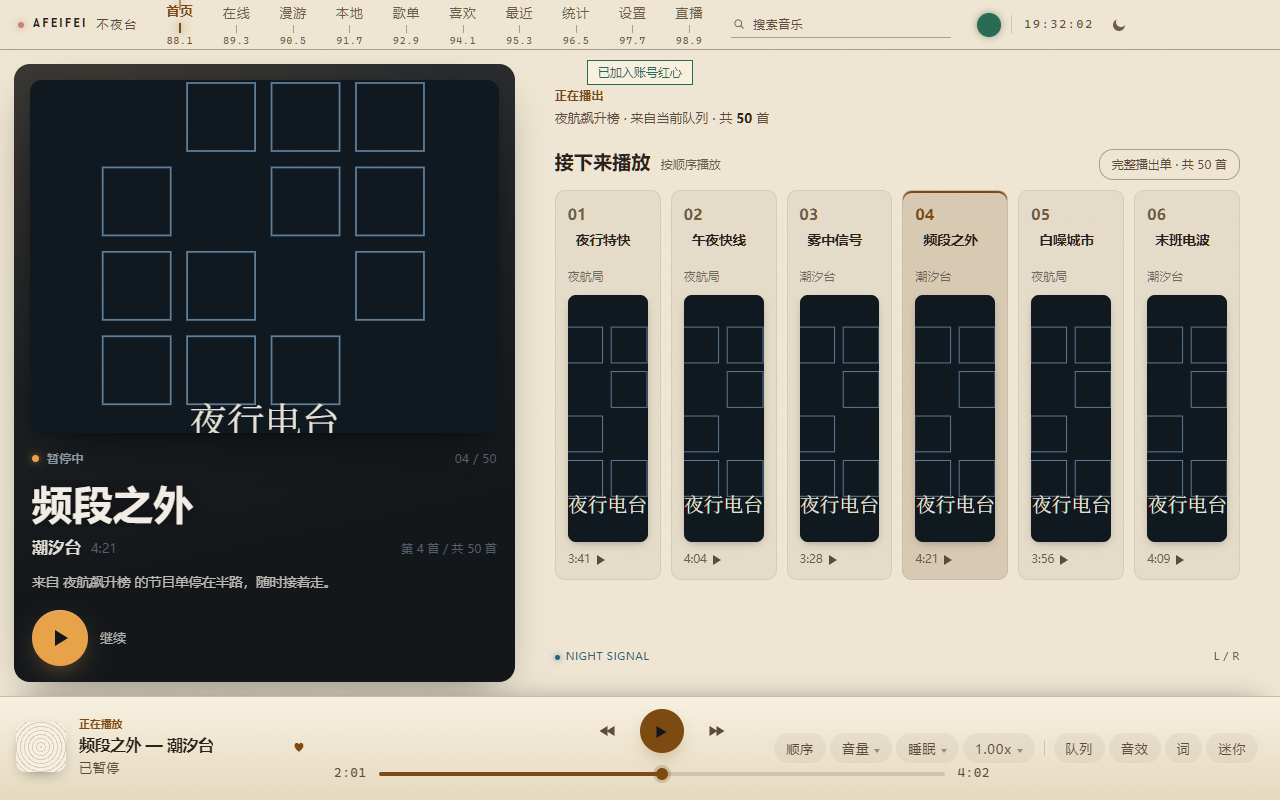
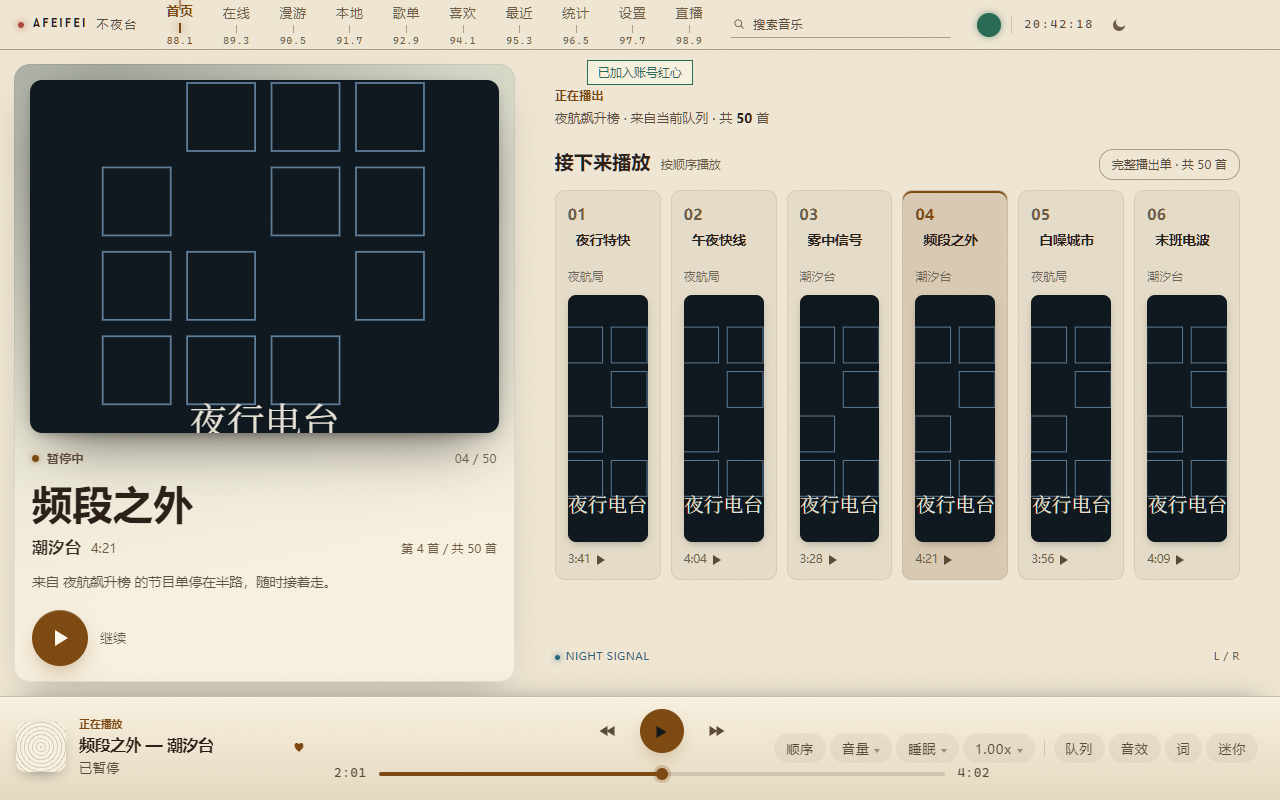
ui: 首页封面台退出恒暗区，hero 跟主题 + 封面取色做场景层

Changed region(s): [[0.0, 0.0625, 0.4062, 0.875]]

diff --git a/src/renderer/ui/live/cover-stage.css b/src/renderer/ui/live/cover-stage.css
@@ -1,7 +1,8 @@
 /* ================= 首页 · 现代播放器（COVER STAGE v2） =================
-   视觉语言换代：无衬线为主、圆角卡片、阴影层次、大封面主导——
-   去掉票根/印刷语言的方框与全等宽排版。左：「正在播放」大图卡；
-   右：接下来播放的圆角封面卡网格 + 真频谱。主题 token 体系不变。
+   视觉语言：无衬线为主、圆角卡片、阴影层次、大封面主导。
+   左：「正在播放」大图卡 = 首页的场景层（§9.3）——底色 = 封面取色 × 主题面板，
+   每首歌进来页面换一次氛围（tint 只进这一块，UI 骨架不跟色）；
+   右：接下来播放的圆角封面卡网格 + 真频谱（结构层，跟主题不跟封面）。
    动效只保留「本次运行第一次进入首页」的一次入场；切页不重播。 */
 
 .shell.live .cs-home {
@@ -26,27 +27,15 @@
   flex-direction: column;
   padding: 16px;
   border-radius: 16px;
-  /* 恒深舞台 + 封面取色（--cs-tint 来自 M9-2 管线）：卡底带封面色温——
-     紫封面 → 深紫卡、橙封面 → 深棕卡，浅色壳上的大黑块不再突兀。
-     tint 失败时 transparent → 纯墨兜底，取色永不影响可读性 */
-  background-color: var(--live-ink);
+  /* 场景层：卡底带封面色温——紫封面 → 淡紫卡（浅色档）/ 深紫卡（深色档）。
+     tint 失败时 transparent → 纯面板兜底，取色永不影响可读性（M9-2 管线 L 已夹取） */
+  background-color: var(--live-panel);
   background-image:
-    radial-gradient(120% 90% at 18% 0%, color-mix(in oklch, var(--cs-tint) 42%, transparent), transparent 60%),
-    linear-gradient(168deg, color-mix(in oklch, var(--cs-tint) 20%, var(--live-ink)), var(--live-ink) 78%);
-  box-shadow: 0 18px 44px -20px rgba(0, 0, 0, 0.5);
-}
-
-/* 电台身份戳：现代结构里保留的一枚 mono 印章——只在角落，不参与排版 */
-.cs-stamp-corner {
-  position: absolute;
-  top: 26px;
-  right: 28px;
-  z-index: 4;
-  font-family: var(--font-mono);
-  font-size: 10px;
-  letter-spacing: 0.22em;
-  color: color-mix(in srgb, var(--live-fg) 48%, transparent);
-  pointer-events: none;
+    radial-gradient(120% 90% at 18% 0%, color-mix(in oklch, var(--cs-tint) 28%, transparent), transparent 60%),
+    linear-gradient(168deg, color-mix(in oklch, var(--cs-tint) 16%, var(--live-panel)), var(--live-panel) 78%);
+  box-shadow:
+    0 18px 44px -20px rgba(0, 0, 0, 0.28),
+    inset 0 0 0 1px color-mix(in srgb, var(--live-fg) 7%, transparent);
 }
 
 /* 封面 = flex item 弹性占满上部（文档流，信息区永不会越出卡片）。
@@ -118,7 +107,6 @@
   line-height: 1.18;
   letter-spacing: 0.01em;
   color: var(--live-fg);
-  text-shadow: 0 2px 24px rgba(0, 0, 0, 0.5);
   overflow-wrap: anywhere;
 }
 
@@ -188,7 +176,8 @@
   border: none;
   border-radius: 50%;
   background: var(--live-amber);
-  color: var(--live-ink);
+  /* 琥珀/赭石填充上的字色：--live-accent-ink 四档各自保证对比（浅底档近白、深底档近黑） */
+  color: var(--live-accent-ink);
   cursor: pointer;
   box-shadow:
     0 10px 26px -10px color-mix(in srgb, var(--live-amber) 62%, transparent),
@@ -459,8 +448,8 @@
   min-height: 44px;
   margin: 10px 0 8px;
   border-radius: 8px;
-  /* 加载中/无图的底：偏深（ink 为主），图一到位就被盖住 */
-  background: color-mix(in srgb, var(--live-ink) 55%, var(--live-panel-2));
+  /* 加载中/无图的底：凹槽色（永远比卡片深一档，四档 token），图一到位就被盖住 */
+  background: var(--live-slot);
   overflow: hidden;
   box-shadow: 0 3px 10px -4px rgba(0, 0, 0, 0.4);
 }
@@ -873,7 +862,7 @@ img.cs-tape-art {
   height: 36px;
   border-radius: 6px;
   object-fit: cover;
-  background: color-mix(in srgb, var(--live-ink) 55%, var(--live-panel-2));
+  background: var(--live-slot);
 }
 
 /* 无封面垫底：迷你黑胶（同 .cs-tape-vinyl 语言，缩小版） */

diff --git a/src/renderer/ui/live/LiveHome.tsx b/src/renderer/ui/live/LiveHome.tsx
@@ -4,7 +4,6 @@ import { fmtDuration } from "../views/library/rows.js";
 import { useAccountBundle, type AccountBundle } from "../account-data.js";
 import { RefreshButton } from "../RefreshButton.js";
 import { NightCoverArt } from "./NightCoverArt.js";
-import { issueOf, nightOfYear } from "./night.js";
 import { sampleCoverTint } from "../views/stage/tint-client.js";
 import { splitLatinRuns } from "./typography.js";
 import { onTick } from "../compositor.js";
@@ -177,11 +176,8 @@ export function LiveHome({
                 referrerPolicy="no-referrer"
               />
             ) : (
-              <NightCoverArt className="cs-cover" dark />
+              <NightCoverArt className="cs-cover" />
             )}
-            <span className="cs-stamp-corner" aria-hidden="true">
-              不夜台 · 第 {nightOfYear(new Date())} 夜
-            </span>
 
             <div className="cs-copy">
               <p className="cs-kicker">

diff --git a/src/renderer/ui/live/NightCoverArt.tsx b/src/renderer/ui/live/NightCoverArt.tsx
@@ -1,11 +1,11 @@
 /**
- * 无真实封面时的「台版封套」：夜蓝底 + 半出的黑胶 + 琥珀标签。
+ * 无真实封面时的「台版封套」：面板底 + 半出的黑胶 + 琥珀标签。
  * 纯装饰（aria-hidden），真实曲名/艺人在覆盖层文字里。
- * dark：恒深变体——hero 卡是恒深舞台，浅色主题下占位不能比卡底还浅。
+ * 颜色全走 --live-* token，四档主题自适应。
  */
-export function NightCoverArt({ className, dark = false }: { className?: string; dark?: boolean }) {
-  const bgTop = dark ? "var(--live-ink)" : "var(--live-panel)";
-  const bgMid = dark ? "color-mix(in srgb, var(--live-ink) 88%, var(--live-fg))" : "var(--live-bg)";
+export function NightCoverArt({ className }: { className?: string }) {
+  const bgTop = "var(--live-panel)";
+  const bgMid = "var(--live-bg)";
   return (
     <svg
       className={className}

diff --git a/src/renderer/ui/live/live.css b/src/renderer/ui/live/live.css
@@ -30,12 +30,10 @@
   height: 100vh;
 }
 
-/* 暗区：播放页与首页封面台恒暗（tokens.css ⑤ / A-10）。
-   把直播带那一层钉回夜航值 —— 这 2000 行里的 .st-air / .cs-stage / NightCoverArt 一个字都不用改。
+/* 暗区：播放页恒暗（tokens.css ⑤ / A-10：播放页与主题独立）。
+   首页封面台 2026-11-08 起退出暗房：hero 跟主题走，封面取色（--cs-tint）做场景层供色。
    注意顺序：这条必须在 `.shell.live` 之后，靠更具体的选择器而不是源码顺序生效。 */
-:root[data-theme] .stage.is-live,
-:root[data-theme] .cs-stage,
-:root[data-theme] .cs-empty-art {
+:root[data-theme] .stage.is-live {
   --live-bg: var(--night-bg);
   --live-panel: var(--night-panel);
   --live-panel-2: var(--night-panel-2);

diff --git a/src/renderer/ui/tokens.css b/src/renderer/ui/tokens.css
@@ -90,9 +90,9 @@
   --live-ink: #14171a;
   --live-ruler-h: 50px;
 
-  /* ⑤ 舞台暗区：播放页与首页封面台恒暗。
-     这不是"主题"，是两条既有决定（A-10 播放页与主题独立 / 2026-11-05「播出面进暗房」）的落点：
-     控制室的灯跟着日升日落，台上那盏不跟。live.css 在暗区作用域里把 --live-* 钉回这一套。 */
+  /* ⑤ 舞台暗区：播放页恒暗（A-10 播放页与主题独立 / 2026-11-05「播出面进暗房」）。
+     首页封面台 2026-11-08 起跟主题走（封面取色做场景层），不再钉这套。
+     live.css 在暗区作用域（.stage.is-live）里把 --live-* 钉回这一套。 */
   --night-bg: #0a0e13;
   --night-panel: #121820;
   --night-panel-2: #0d131a;
